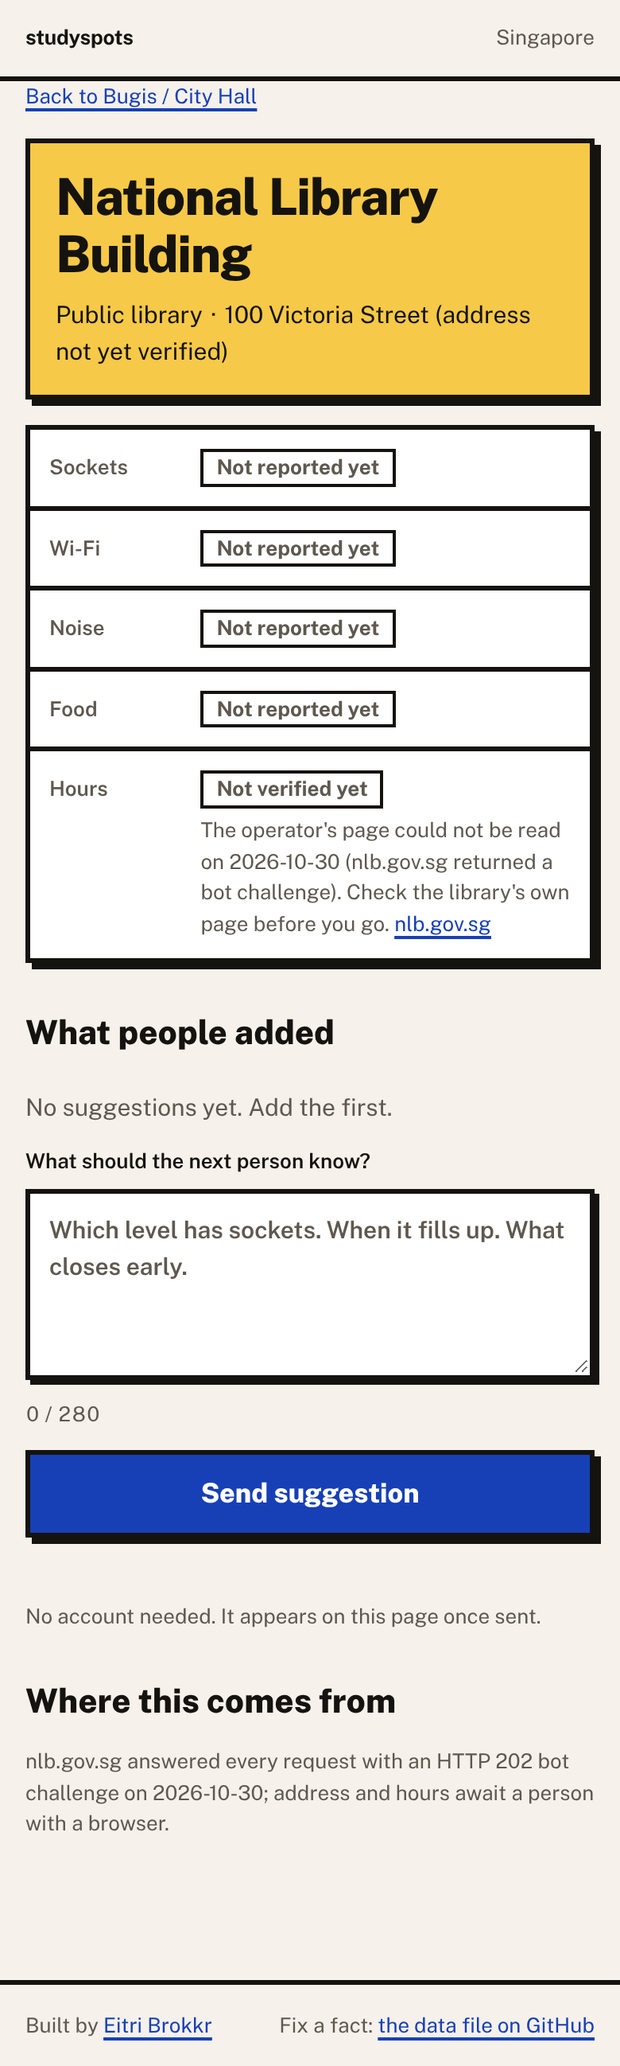
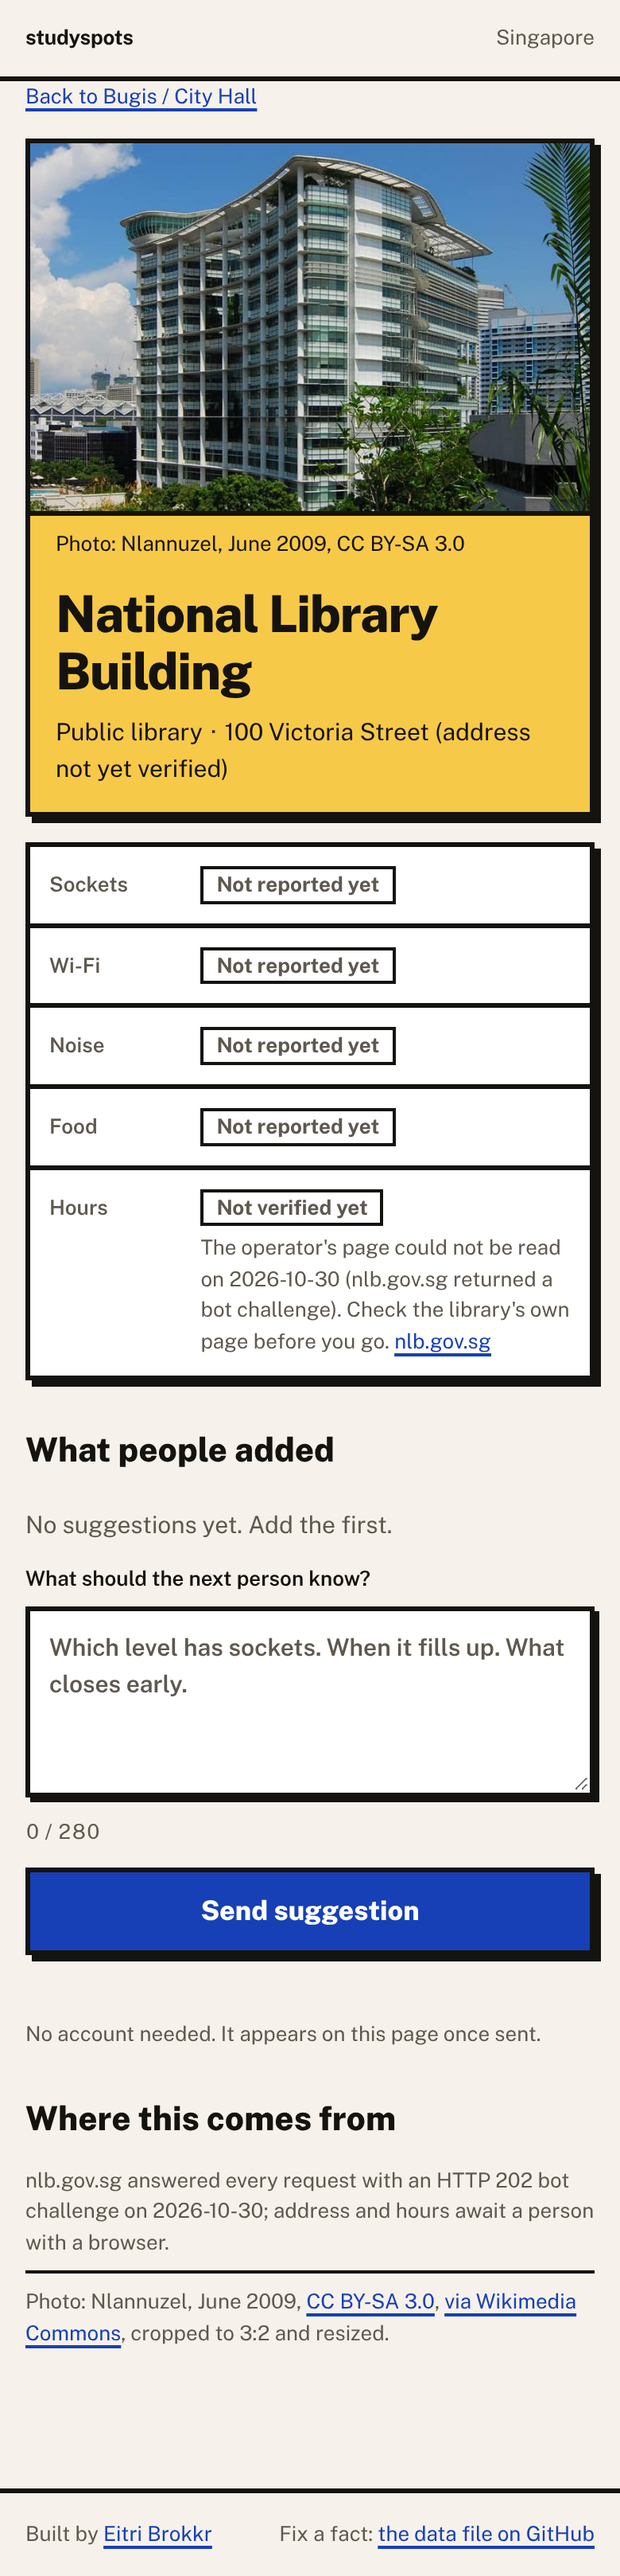
Cafés inside a mall move onto the mall's page; every place gets a credited photo
Joshua, 31 Oct: "the cafe should only be there if it's not within a
mall" and "add pictures of the mall / place".

Nesting: a spot with "within" in data/spots.json is left off the area
page and listed under "Inside <mall>" on its mall's page; its own page
keeps its suggestions and links back through the mall. All four Coffee
Bean outlets sit inside malls, so the area page now lists 11 places, and
a mall card says how many cafés are inside. Filter chips are built from
what is on the page. The seed gate refuses a missing parent, a parent in
another area, or nesting deeper than one level.

Photos: one freely licensed Wikimedia Commons photo per place (CC BY,
CC BY-SA or public domain; the gate refuses NC and ND), cropped to 3:2,
resized to 400 and 800 wide, metadata stripped, self-hosted under
src/images. Author, date taken and licence show under the photo on each
spot page, in its sources with links, and in Photo credits on the area
page. Cafés inside malls have no photo: Commons has none of the outlets.

verify.mjs scrolls every lazy image into view and requires it to load
with an alt attribute, checks each mall lists its cafés and each café
links back, and walks a mall page and a café page at 390 wide.

Claude-Session: https://claude.ai/code/session_01AYTZguf87hw8GN5ra2oqPY

diff --git a/src/styles/site.css b/src/styles/site.css
@@ -67,6 +67,12 @@ main.wrap { flex: 1; padding-bottom: var(--space-12); }
 }
 .card:hover { transform: translate(-2px, -2px); box-shadow: var(--shadow-hover); }
 .card:active { transform: translate(3px, 3px); box-shadow: var(--shadow-press); }
+/* photos: square-cornered, ink-ruled, 3:2 */
+.card .ph { display: block; margin: calc(-1 * var(--space-3)) calc(-1 * var(--space-3)) var(--space-3); border-bottom: var(--border-w) solid var(--color-ink); background: var(--color-paper); }
+.card .ph img, .hero-ph img { display: block; width: 100%; height: auto; aspect-ratio: 3 / 2; object-fit: cover; }
+.hero-ph { margin: calc(-1 * var(--space-4)) calc(-1 * var(--space-4)) var(--space-4); }
+.hero-ph img { border-bottom: var(--border-w) solid var(--color-ink); }
+.hero-ph figcaption { font-size: var(--text-13); color: var(--color-ink); padding: var(--space-2) var(--space-4) 0; }
 .card .name { display: block; font-size: var(--text-17); font-weight: 800; line-height: var(--leading-tight); }
 .card .kind { display: block; font-size: var(--text-13); color: var(--color-ink); margin: var(--space-1) 0 var(--space-2); }
 .facts { display: flex; gap: var(--space-2) var(--space-2); flex-wrap: wrap; }
